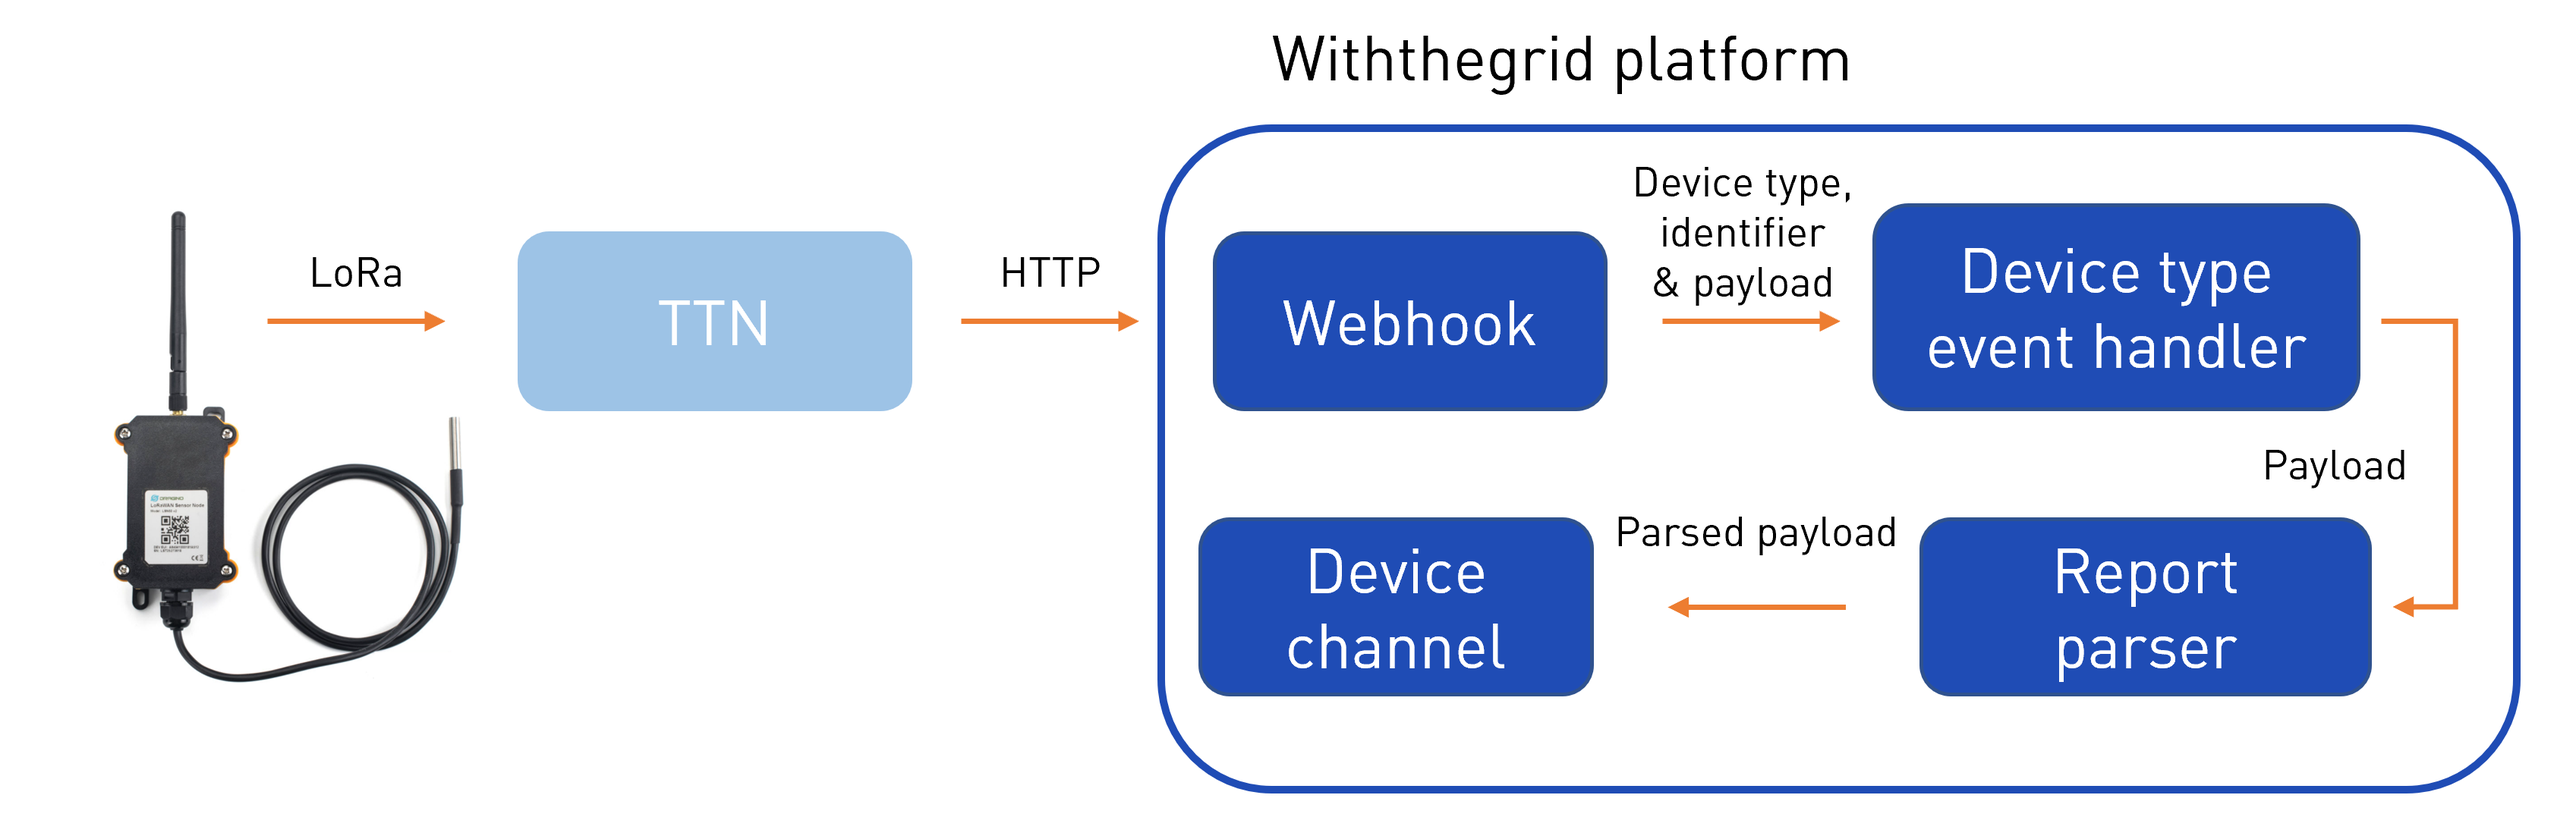
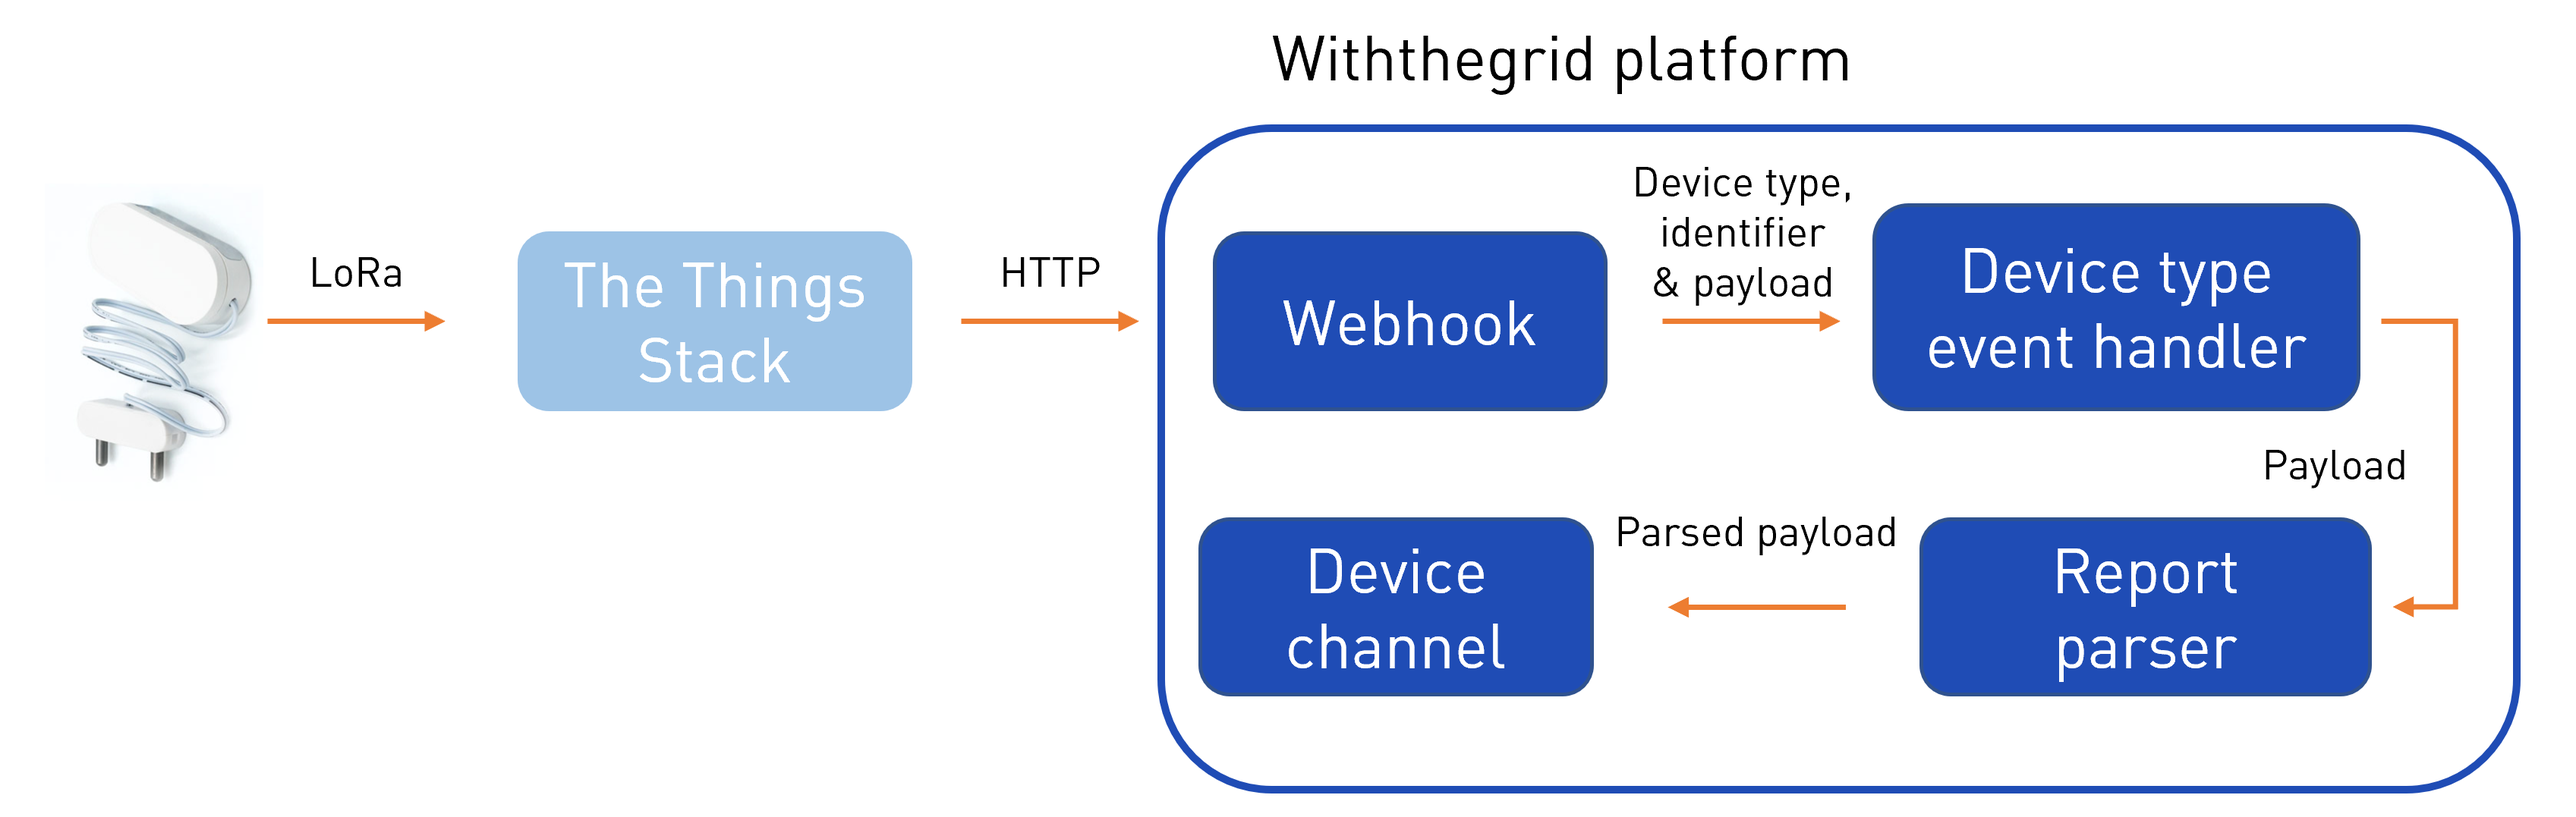
doc: Add Withthegrid integration doc (#822)

Changed region(s): [[0.0312, 0.2451, 0.1874, 0.8273], [0.2186, 0.3064, 0.3435, 0.4903]]

diff --git a/doc/content/integrations/cloud-integrations/withthegrid/_index.md b/doc/content/integrations/cloud-integrations/withthegrid/_index.md
@@ -4,7 +4,7 @@ description: ""
 weight: 
 ---
 
-[Withthegrid](https://withthegrid.com/) is a IoT asset monitoring platform for infrastructure - it allows you to monitor assets, connect IoT sensors, visualize data, detect anomalies and manage workflows. In this section, we describe how to implement {{% tts %}} integration with the Withthegrid platform.
+[Withthegrid](https://withthegrid.com/) is an IoT asset monitoring platform for infrastructure - it allows you to monitor assets, connect IoT sensors, visualize data, detect anomalies and manage workflows. In this section, we describe how to implement {{% tts %}} integration with the Withthegrid platform.
 
 <!--more-->
 
@@ -24,7 +24,7 @@ Monitoring environments are environments where the end users obtain an overview 
 
 Locations form the core of the asset monitoring platform. At each location, measurements are recorded. In our example, a monitoring environment with the name **Infrastructure company ACME** will be created (Figure 1). We will create a location **ACME Headquarters** where we will connect a **Dragino - LWL02** water leak sensor device. Each location can be consisted of multiple location ports. These are ports onto which measurements are recorded. Here, we create a location port **Entrance** where the sensor is located. The device can be assigned with several channels that can be linked with any location port. This way, the right measurements can be pushed to desired locations.
 
-{{< figure src="monnEnvironment.png" alt="Monitoring environment example" caption="Figure 1. Example of a setup of monitoring environment" >}}
+{{< figure src="monnEnvironment.png" alt="Monitoring environment example" caption="Figure 1. Example of the setup of monitoring environment" >}}
 
 ### Connectivity environments
 
@@ -32,7 +32,7 @@ Connectivity environments are environments where users configure their devices o
 
 In the connectivity environment, you can configure secure access for your devices through HTTPS webhooks or client certificates. You can define event handlers in TypeScript that parse incoming payloads into measurement reports, return instructions to devices and monitor device health.
 
-{{< figure src="connEnvironment.png" alt="" caption="Figure 2. Example of the setup of connectivity environment" >}}
+{{< figure src="connEnvironment.png" alt="Connectivity environment example" caption="Figure 2. Example of the setup of connectivity environment" >}}
 
 In the following example, **Dragino - LWL02** device will be connected to the platform. Every instance of this device type (the physical device) will obtain a unique device ID by the platform which we call a **hashID**. Each device can have multiple device channels where measurements are pushed. An example of a device channel is **Internal Sensor**. A user can define which measurements will be stored in this channel. The quantity which will be stored in this channel will be the operating voltage. Quantities related to the channel **Probe** are leak status, total leak events, and last leak duration. Custom commands can be defined in the connectivity environments such as a request to change the measurement interval of a connected device but this is out of the scope of this tutorial.
 
@@ -42,7 +42,7 @@ Finally, the connectivity environment is used to define the structure of measure
 
 A simplified dataflow model is shown in the figure below. An HTTP request from {{% tts %}} is processed by the **webhook**. Webhooks define the communicating device type, its unique identifier (e.g. IMEI number) and forward this information together with the payload to the corresponding **device type event handler**. Subsequently, the event handler runs a **report parser**. The platform offers full flexibility on how to parse payload into condition reports, using a custom TypeScript parser function. The parser should then convert the payload string (probably applying `JSON.parse` first) into an actual report with measurements.
 
-{{< figure src="dataFlow.png" alt="WTG dataflow" >}}
+{{< figure src="dataFlow.png" alt="WTG dataflow" caption="Figure 3. Simplified dataflow model of the Withthegrid platform" >}}
 
 Now, let's implement the integration!
 
@@ -50,88 +50,88 @@ Now, let's implement the integration!
 
 To create a new connectivity environment, simply enter the desired name and select **CREATE**.
 
-{{< figure src="1_c_environment.png" alt="Create new connectivity environment" >}}
+{{< figure src="1_c_environment.png" alt="Create new connectivity environment" caption="Figure 4. New connectivity environment" >}}
 
 The same procedure can be followed to create a new monitoring environment. To create the first location in the monitoring environment, locate the desired place on the map and **Add a new location**.
 
-{{< figure src="claim6.png" alt="Add new location" >}}
+{{< figure src="claim6.png" alt="Add new location" caption="Figure 5. Add new location" >}}
 
 To navigate between the environments, click on the arrows located in the top left corner.
 
 ## Step 2: Creating a new webhook
 
-The first step in integrating the Withthegrid platform with The Things Network is to create a new webhook. Webhooks can be found in the connectivity environment, under **Device access/Webhooks**. To create a new webhook, click **+** in the right bottom corner.
+The first step in integrating the Withthegrid platform with {{% tts %}} is to create a new webhook. Webhooks can be found in the connectivity environment, under **Device access/Webhooks**. To create a new webhook, click **+** in the right bottom corner.
 
-{{< figure src="2_c_environment.png" alt="Webhooks" >}}
+{{< figure src="2_c_environment.png" alt="Webhooks" caption="Figure 6. Webhooks overview" >}}
 
 Select the desired webhook name and click **ADD**.
 
-{{< figure src="webhook_1.png" alt="Add webhook" >}}
+{{< figure src="webhook_1.png" alt="Add webhook" caption="Figure 7. Add a new webhook" >}}
 
-The platform will generate a webhook URL which we can use later to connect with The Things Network.
+The platform will generate a webhook URL which we can use later to connect with {{% tts %}}.
 
-{{< figure src="webhook_2.png" alt="Webhook URL" >}}
+{{< figure src="webhook_2.png" alt="Webhook URL" caption="Figure 8. New webhook" >}}
 
 ## Step 3: Creating and configuring a new device type
 
 A new device type can be created in a connectivity environment by navigating to **Device types**. This page shows an overview of all the device types that are available in your environment. Let’s create the first device type by clicking **+** in the bottom right corner. 
 
-{{< figure src="5_c_environment_deviceType.png" alt="New device type" >}}
+{{< figure src="5_c_environment_deviceType.png" alt="New device type" caption="Figure 9. Device types overview" >}}
 
 Name the new device type. At this point, we can also change the default name of the device channel to `Internal Sensor`. Use the same name for default name for port. This is where internal battery voltage measurements will be pushed. 
 
-{{< figure src="device_type_1.png" alt="Device type overview" >}}
+{{< figure src="device_type_1.png" alt="Device type overview" caption="Figure 10. Add a new device type" >}}
 
 Let’s create one additional channel (`Probe`), where we will push measurements related to the water leak.
 
-{{< figure src="device_type_2.png" alt="Set channels" >}}
+{{< figure src="device_type_2.png" alt="Set channels" caption="Figure 11. Set channels" >}}
 
 Click **ADD** to set the channel and click **ADD** to update and save the changes.
 
 Withthegrid's new event handler will validate the incoming request and pass the payload to the corresponding report parser which will parse incoming payloads into measurement reports. The new device type will be given a new hashID (e.g. **4djrvd**) which is a unique ID that identifies the event handler of **Dragino - LWL02**.
 
-{{< figure src="device_type_3.png" alt="Device type" >}}
+{{< figure src="device_type_3.png" alt="Device type" caption="Figure 12. List of existing device types" >}}
 
 ## Step 4: Creating a new report type and quantities
 
 For each report, a report parser can parse the incoming payload. To create a new report, click **+** in the bottom right corner.
 
-{{< figure src="8_c_environment_report.png" alt="Create a report parser" >}}
+{{< figure src="8_c_environment_report.png" alt="Create a report parser" caption="Figure 13. Report types overview" >}}
 
 Follow the same steps as before to **ADD** the new report type.
 
-{{< figure src="10_c_environment_report.png" alt="Report parser" >}}
+{{< figure src="10_c_environment_report.png" alt="Report parser" caption="Figure 14. Add a new report parser" >}}
 
 In the report parser, we will correctly parse the incoming payload into a measurement report. A new report type will be given a hashID (e.g. **eyr96d**). Note that the hashID is automatically created and will be different for everyone.
 
 The quantities of interest in this example are voltage, leak status, total leak events and last leak duration. Custom quantities can be found in the panel under option **Quantities**. To create a new quantity, select **+**.
 
-{{< figure src="quantities_1.png" alt="Quantities" >}}
+{{< figure src="quantities_1.png" alt="Quantities" caption="Figure 15. Quantities overview" >}}
 
 Enter the quantity name `Voltage` and unit `V`. To create the quantity, select **ADD**.
 
-{{< figure src="quantity_1.png" alt="Create a quantity" >}}
+{{< figure src="quantity_1.png" alt="Create a quantity" caption="Figure 16. Add a new quantity" >}}
 
 After selecting **ADD**, a hashID will be created for the newly created quantity. We will create `Leak status`, `Total leak events`, and `Last leak duration` quantities by following the same procedure. For unitless quantities, just enter space. Leak duration is in min according to the datasheet. In this example, the voltage, leak status, total leak events, and last leak duration hashIDs are **yl4wwy**, **dp2v9d**, **yzrwny**, and **d4rwrd**, respectively. The hashIDs will be used in the report to identify the correct measurement quantity.
 
-{{< figure src="quantity_2.png" alt="Created quantities overview" >}}
+{{< figure src="quantity_2.png" alt="Created quantities overview" caption="Figure 17. List of existing quantities" >}}
 
 ## Step 5: Configuring the created webhook
 
-The webhook created in step 2 can be edited by navigating to **Webhooks**, selecting the newly created **The Things Network** webhook, and clicking **EDIT THE IDENTIFIER**. The platform provides a template and a direct link to the webhook documentation. The following webhook will pass the payload from {{% tts %}}, together with the device type hashID to the appropriate event handler. Lastly, the webhook will also return a `deviceIdentifier`, e.g. the IMEI of the device.
+The webhook created in step 2 can be edited by navigating to **Webhooks**, selecting the newly created {{% tts %}} webhook, and clicking **EDIT THE IDENTIFIER**. The platform provides a template and a direct link to the webhook documentation. The following webhook will pass the payload from {{% tts %}}, together with the device type hashID to the appropriate event handler. Lastly, the webhook will also return a `deviceIdentifier`, e.g. the IMEI of the device.
 
 ```tsx
 type JsonObject = { [key: string]: Json };
 
-const ttnApplicationIds = {
+const ttsApplicationIds = {
   dragino: {
-    waterLeak: "dwl",
+    waterLeak: 'dwl',
   },
 };
-
+ 
 const deviceTypeHashIds = {
   dragino: {
-    waterLeak: "4djrvd",
+    waterLeak: '4djrvd',
   },
 };
 
@@ -140,7 +140,7 @@ function handle(args: Arguments): Result {
   let deviceTypeHashId;
 
   switch (data?.end_device_ids?.application_ids.application_id) {
-    case ttnApplicationIds.dragino.waterLeak:
+    case ttsApplicationIds.dragino.waterLeak:
       deviceTypeHashId = deviceTypeHashIds.dragino.waterLeak;
       break;
 
@@ -202,7 +202,7 @@ function handle(args: Arguments, exec: Exec): IncomingRequestResponse | void {
       if (payload.join_accept !== undefined) {
         return {
           statusCode: 204,
-          body: ["TTN is registering!"],
+          body: ["The Things Stack is registering!"],
         };
       }
 
@@ -238,7 +238,7 @@ Now that the webhook and the event handler of the Dragino - LWL02 device are con
 
 After the device is registered, we can configure a new webhook on {{% tts %}}. Set the webhook format to **JSON** and enter the **Base URL** provided with the Withthegrid webhook we created in step 2.
 
-{{< figure src="TTN_Webhook.png" alt="TTN set up webhook" >}}
+{{< figure src="TTS_Webhook.png" alt="TTS set up webhook" caption="Figure 20. Configure The Things Stack webhook" >}}
 
 ## Step 8: Configuring report type
 
@@ -350,25 +350,25 @@ function pushMeasurement(
 
 After powering up the device it should automatically connect to the Withthegrid application. The successful connection can be observed in the connectivity environment under **Activity** and it will look like this:
 
-{{< figure src="activity_1.png" alt="Activity" >}}
+{{< figure src="activity_1.png" alt="Activity" caption="Figure 20. Activity overview" >}}
 
 You can click on **Parse report** to view more information and verify that the parsing is correct.
 
-{{< figure src="activity_2.png" alt="Snipet of parsed report" >}}
+{{< figure src="activity_2.png" alt="Snipet of parsed report" caption="Figure 21. Example of the parsed report" >}}
 
 ## Step 10: Claiming device tokens
 
 When the sensor is linked for the first time, the instance of the device is created in the platform and can be found in **Devices**. The corresponding device will have a unique hashID (e.g. **dxrwmd**), Identifier (in our case IMEI of the device), and will be of device type **Dragino - LWL02**. The device can be easily placed in any monitoring environment by selecting **GET CLAIM TOKEN(S)** in the bottom right corner.
 
-{{< figure src="tokens_1.png" alt="Tokens for devices" >}}
+{{< figure src="tokens_1.png" alt="Tokens for devices" caption="Figure 22. Devices overview" >}}
 
 Enter the hashID of a device to be claimed and click **REQUEST**.
 
-{{< figure src="tokens_2.png" alt="HashID for claim token" >}}
+{{< figure src="tokens_2.png" alt="HashID for claim token" caption="Figure 23. Get claim tokens with device hash IDs" >}}
 
 The platform will output a claim token that can be copied.
 
-{{< figure src="token_3.png" alt="Get claim token" >}}
+{{< figure src="token_3.png" alt="Get claim token" caption="Figure 24. Claim generated token" >}}
 
 In the last step, we will configure the monitoring environment and add the newly connected sensor. 
 
@@ -376,22 +376,22 @@ In the last step, we will configure the monitoring environment and add the newly
 
 To add a device into the monitoring environment, navigate to **Devices**, click **+**, and enter the previously copied claim token. Click **ADD**.
 
-{{< figure src="claim4.png" alt="Claim token" >}}
+{{< figure src="claim4.png" alt="Claim token" caption="Figure 25. Claim device in the monitoring environment" >}}
 
 The following image shows that the device is registered in the monitoring environment, however, is not installed yet.
 
-{{< figure src="Mon_1.png" alt="Claim device in monitoring environment" >}}
+{{< figure src="Mon_1.png" alt="Claim device in monitoring environment" caption="Figure 26. Available devices" >}}
 
 To install a device, navigate to the created location (**ACME Headquarters**) and select **Devices**.
 
-{{< figure src="claim7.png" alt="Create location" >}}
+{{< figure src="claim7.png" alt="Create location" caption="Figure 27. Add a device to location" >}}
 
 In **Link to a device**, select the **Dragino - LWL02**. Finally, we would like to track the **Internal Sensor** port and **Probe** port onto which measurements are pushed. Click **+ PORT** to add the **Internal Sensor** channel and repeat to add the **Probe** channel. Finalize the device installation with **SET**.
 
-{{< figure src="Mon_2.png" alt="Set device ports" >}}
+{{< figure src="Mon_2.png" alt="Set device ports" caption="Figure 28. Set device ports" >}}
 
 From this point on, all measurements pushed to channels of Dragino - LWL02 sensor with the unique IMEI will be available in the monitoring environments, ready to be visualized in graphs. Try shorting the two pins on the sensor to see if a measurement is recorded.
 
-{{< figure src="Graphs.png" alt="Overview of the graph" >}}
+{{< figure src="Graphs.png" alt="Overview of the graph" caption="Figure 29. Visualize data" >}}
 
 Congratulations! If you can see measurements in the graphs, you have successfully finished the tutorial. If you want to learn more about all the cool functionalities that the Withthegrid platform offers, do not hesitate to look at our [documentation](http://docs.withthegrid.com/) or contact us directly through [withthegrid.com](http://withthegrid.com/).
